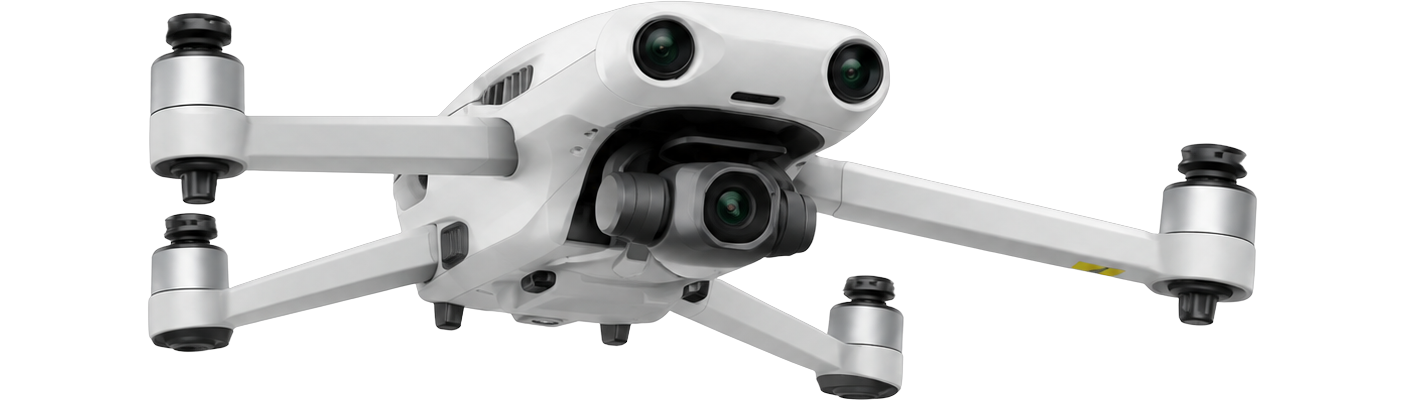
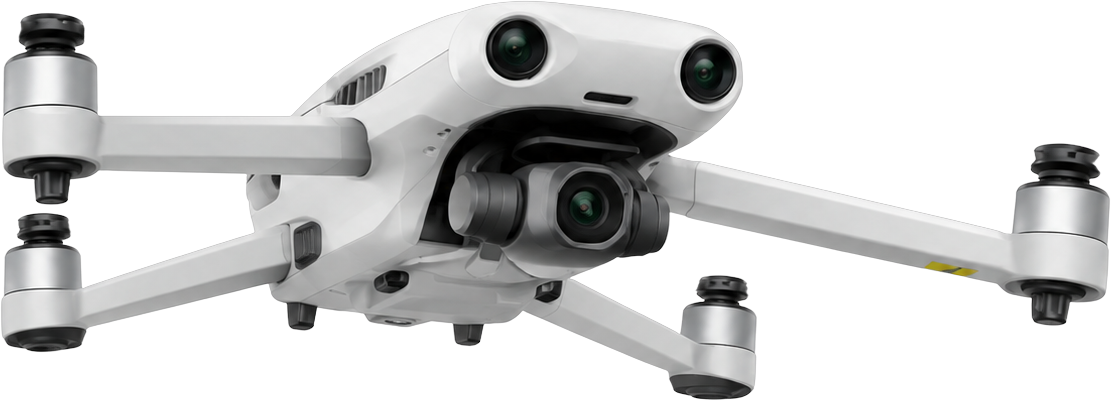
The drone on role-select grows to stand beside the cargo box (rev 285)
The front-view render is 3.5:1, so in the shared 56x44 well it drew 48x14
against the box's 48x34. The dark file's empty side margins are trimmed to
match the light framing, and .dr-well--wide lets the picture spill 14px past
the well each side: 76x22 light, 76x27 dark. Title column unchanged; the
drone-to-title gap is 10 on this row, departing from rev 228's 20 - her
choice between the two readings. Kit specimen and screen both carry it.

diff --git a/components/card.css b/components/card.css
@@ -158,6 +158,19 @@
   width: var(--len-56);
   height: var(--len-44);
 }
+/* A WIDE RENDER MAY SPILL ITS WELL SIDEWAYS (2026-10-10). The designer, on
+   role-select: the drone is far smaller than the cargo box beside it. Both sit
+   in the same 56x44 well, but the front-view drone is 3.5:1, so `contain` gave
+   it 48x14 against the box's 48x34. The picture now runs 14px past the well's
+   content box on each side - 76px wide, ~22px tall - while the well itself, and
+   so the title column of both rows, does not move. 6px stays to the card edge
+   and 10px to the title. Decorative (alt=""), so no WCAG criterion is engaged. */
+.dr-choice > .dr-well--wide img{
+  width: calc(100% + 2 * var(--len-14));
+  max-width: none;
+  margin-inline: calc(-1 * var(--len-14));
+  flex: none;
+}
 .dr-choice__body{
   flex: 1;
   min-width: 0;

diff --git a/wireframes/role-select.html b/wireframes/role-select.html
@@ -67,7 +67,7 @@
             <span class="dr-choice__chev"><svg class="dr-ic dr-ic--16" viewBox="0 0 24 24" fill="none" stroke="currentColor" stroke-width="1.7" stroke-linecap="round" stroke-linejoin="round" aria-hidden="true"><path d="M9 5l7 7-7 7"/></svg></span>
           </a>
           <a class="dr-choice" href="onboarding-operator.html">
-            <span class="dr-well"><img src="../assets/drones/thumbs/drone-flight-front.png" alt="" loading="lazy" decoding="async"></span>
+            <span class="dr-well dr-well--wide"><img src="../assets/drones/thumbs/drone-flight-front.png" alt="" loading="lazy" decoding="async"></span>
             <span class="dr-choice__body">
               <span class="dr-choice__title">I provide services</span>
             </span>

diff --git a/ui/kit.html b/ui/kit.html
@@ -2250,7 +2250,7 @@
       <span class="dr-choice__chev"><svg class="dr-ic dr-ic--16" viewBox="0 0 24 24" fill="none" stroke="currentColor" stroke-width="1.7" stroke-linecap="round" stroke-linejoin="round" aria-hidden="true"><path d="M9 5l7 7-7 7"/></svg></span>
     </a>
     <a class="dr dr-choice" href="#" style="width:341px;max-width:100%">
-      <span class="dr-well"><img src="../assets/drones/thumbs/drone-flight-front.png" alt=""></span>
+      <span class="dr-well dr-well--wide"><img src="../assets/drones/thumbs/drone-flight-front.png" alt=""></span>
       <span class="dr-choice__body">
         <span class="dr-choice__title">I provide services</span>
       </span>

diff --git a/concept/concept.md b/concept/concept.md
@@ -1013,3 +1013,5 @@ The scene fleet looks **deliberately different** from §6.1: dark grey bodies, a
 - **2026-10-10 (rev 284)** — **Inspection is one name, and the example order is a field, not a roof.** The designer, against the built `order-details-inspection` top bar: *«замість "Roof inspection" напиши просто "Inspection" і постав фотки гарного яскравого поля з соняшниками де пів поля соняхи гарні а пів поля посохші і добав фотки де на полі забігли корови та коні і витоптали пів поля»*; then, on the scope question put to her: *«дахи залиш як один із варіантів, додай просто обстеження поля як одну із опцій, але кругом став її першою у списку — для Inspection категорії буде по пріоритету першою»*. **What changed:** every visible *Roof inspection* now reads **Inspection** — nav titles, card titles, the wallet and alert rows, the operator offer and brief, and their accessible names (`WCAG 3.2.4`, one function, one name — the same reasoning as rev 274's *Photo & video*). `order-setup-inspection`'s checkbox group gains **Field** as its first option and the only one ticked; **Roof · Facade · Gutters · Chimney** stay, unticked. Its title, and the row key on every record that carried *Structure*, now reads **Subject** — *Structure* cannot name a field. The example record follows the form: **Subject · Field · sunflowers**, **Location · Hlevakha, field 3** (Osokorky, 14 is a city address, where no field could be), the operator side at **Vasylkiv district**, the price line **Field · 12 ha · ₴480**, so the total is still ₴650 to the hryvnia. **The report's findings** run in severity order and the evidence strip follows them one to one: *Drought · east half* (High) · *Livestock · north edge* (Medium) · *Sunflowers · west half* (None). **Four new photographs**, generated as drone shots in the documentary register of the rafting and sunflower set and saved the usual way (master plus thumb at about 2× the box): `inspection-field-split` (cover), `-drought`, `-livestock`, `-healthy`. Each `alt` says what the frame shows (`WCAG 1.1.1`). **Not touched, on purpose:** `research/` keeps *roof inspection* where it records what people said; dated history (this log, the rewrite logs, `visuals/gaps.md` rows 12–15) is not rewritten; the five roof photographs stay in `assets/scenes/` with nothing pointing at them, because Roof is still a service option and deleting needs her word. `order-history`'s inspection card keeps `drone-flight-clean`, which is a drone, not a roof. — `microcopy.md`, `voice.md`, `wireframes/_screens.md`, `DESIGN.md`, `CLAUDE.md`
 
 - **2026-10-09 (rev 284)** — **The prototype shell stays light in dark mode, decided rather than left open.** *«так лишаємо»*, answering the one question the dark sweep left standing: only the screen inside the frame darkens; the chrome around it — the screen tree, the toolbar, the state tabs, the annotation column — keeps its greyscale. **BOTH OPTIONS CONFORMED**, which is what made this taste and not a defect, and the project rule says to say so plainly rather than treat it as a gap. The candidate was not invented: it mirrored the light ramp rung for rung and every pair was measured before it was shown — `--wf-muted` **2.90:1 → 5.43:1**, `--wf-text-2` 6.27 → 9.04, `--wf-text` 13.94 → 14.73, the annotation link matched on purpose at 8.54 → **8.74:1**, the surface step held at 1.100 → 1.099. **ONE ASYMMETRY IS RECORDED BECAUSE IT SURVIVES THE DECISION:** the **light** shell's `--wf-muted` is #909090 on #F4F4F4 = **2.90:1**, under the 4.5:1 `WCAG 1.4.3` asks of body text, *today*. The dark candidate passed everywhere, so the choice was made in spite of an existing failure, not to avoid a new one — written down here so it is not re-discovered as news. **HER REASON:** the chrome is scaffolding, not product; no user sees it, and a light shell around a dark screen states where the mock ends and the tool begins. **STILL OPEN AND NOT TOUCHED BY THIS:** whether dark ships at all, `prefers-color-scheme`, and whether danger-solid `#C4462A` should shift with the theme. The side-by-side that produced the answer is deleted now that it has been used; its ramp and its numbers live in `83ec139`. — `preview-chrome.html` deleted, `design-system/_critique.md` §15, `concept/concept.md` rev 284
+
+- **2026-10-10 (rev 285)** — **The drone on `role-select` grows to stand beside the cargo box.** The designer: *«зроби цього дрона більшим, він дуже маленький в порівнянні з коробкою»*. Both share a 56×44 well, but the front-view render is 3.5:1, so `contain` gave it **48 × 13.7** against the box's **48 × 33.75**. Two fixes. (1) `drone-flight-front-dark.png` carried ~10.5% empty margin each side that the light file does not; trimmed (master 1406×401 → 1111×401, thumb 256×92), so dark and light are framed alike. (2) New modifier `.dr-well--wide` (`components/card.css`): the picture spills 14px past the well each side — **76 × 21.7** light, **76 × 27.4** dark — while the well and the title column stay put. **It departs from rev 228's 20px picture-to-text gap on this row (10px now)**; she was shown the alternative that keeps 20 (a wider well on both rows) and chose the spill. Standards: decorative `alt=""`, whole card is the 76pt target — HIG and WCAG not engaged. Markup in `ui/kit.html` and `role-select` both. — `DESIGN.md`

diff --git a/DESIGN.md b/DESIGN.md
@@ -2177,7 +2177,8 @@ two Figma references used for structure only. Every value is an existing rung.
   **What was wrong was an asymmetry, not a small number:** the card's 16 inset plus the well's own 4
   put the ink **20** from the card edge, while the 12 gap plus that same 4 put it **16** from the
   title — the cutout read stuck to the words. At 20 the pair reads **20 against 24** and the text is
-  the further of the two. **Only `role-select` moves:** 2 of the 16 `.dr-choice` instances carry a
+  the further of the two. **One departure since 2026-10-10 (`concept.md` rev 285), her call:** the drone row takes `.dr-well--wide` — the render spills 14px past the well's content box on each side, **48 × 13.69 → 76 × 21.7** light (dark, its empty margins trimmed to match the light framing, **76 × 27.4**), against the box's 48 × 33.75. The well and the title column do not move; the drone's ink now stands **10** from the title, not 20, on that row only. She was shown both readings — a wider well on both rows keeping 20, or this — and chose this. Decorative image, card target 76pt: no HIG or WCAG criterion engaged.
+  **Only `role-select` moves:** 2 of the 16 `.dr-choice` instances carry a
   `.dr-well`, the other 14 hold a single child and a flex gap with one child is nothing — measured
   after the change, `support` **55.80 × 3** and both alert logs **77.98 × 11**, unchanged. The card
   keeps its **76** (the 44 well plus 2 × 16 sets it, not the 23.8 title); the text column pays the 8,
